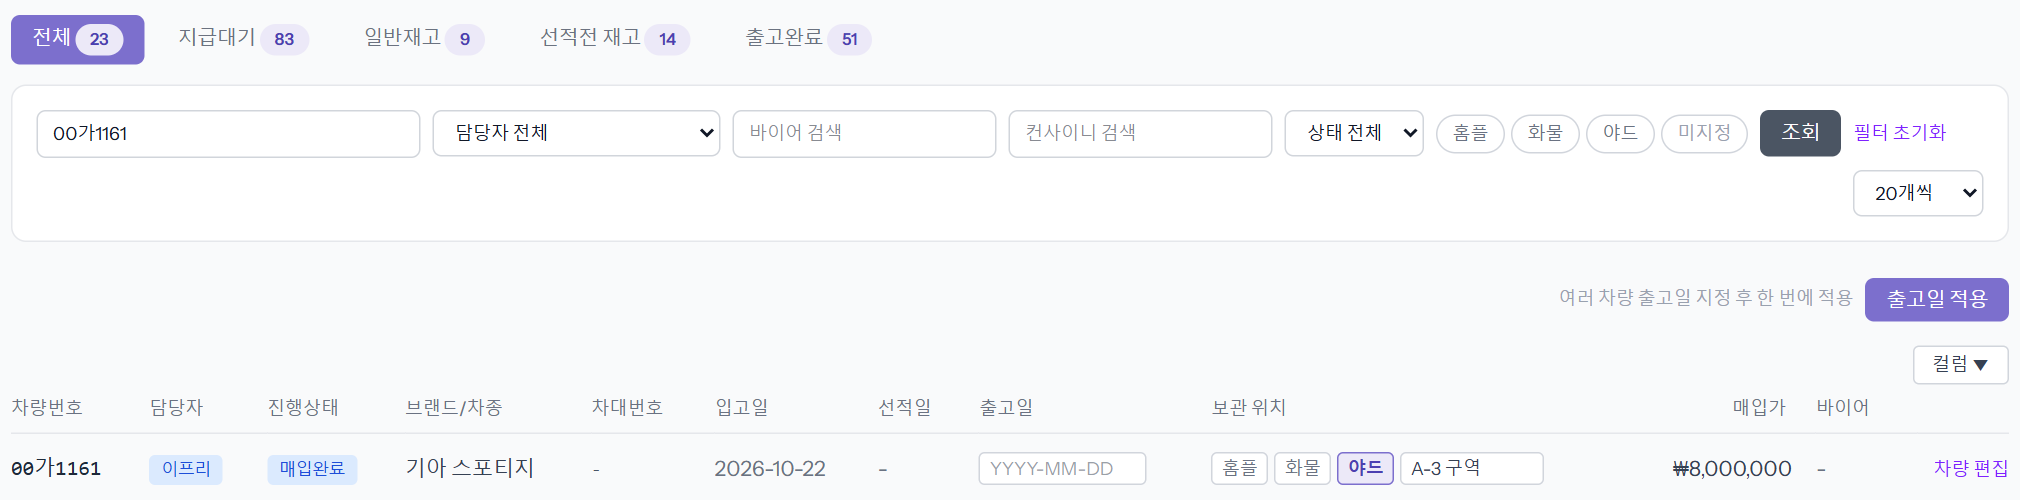
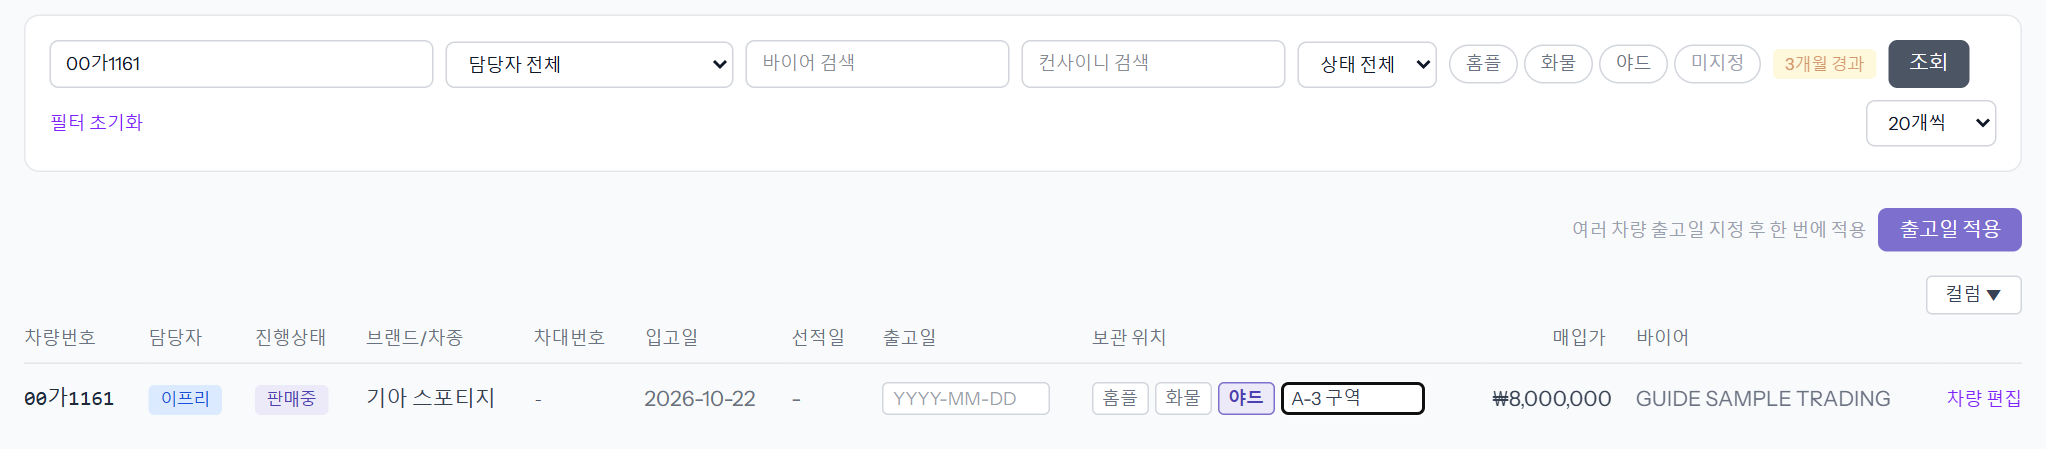
feat(guides): 재고관리 씬 — 담당자별 재고 금액 단계 추가 · 그림 3장 새로 (jin 11-20)
Claude-Session: https://claude.ai/code/session_01C7ygYboCgJMa4kZSBSuMvE

diff --git a/resources/guides/inventory-location/index.html b/resources/guides/inventory-location/index.html
@@ -1,5 +1,5 @@
 <p style="margin:0 0 14px;color:#4b5563;line-height:1.65">
-    매입 대금을 다 치른 차는 「재고관리」에 재고로 잡힙니다. 여기서 차가 어디 서 있는지(보관위치)와 실제로 나간 날(출고일)을 적습니다. 출고일이 찍히면 그 차는 재고에서 빠져 「출고완료」로 갑니다. 예시 차량 00가1161.
+    매입 대금을 다 치른 차는 「재고관리」에 재고로 잡힙니다. 여기서 담당자별 재고 금액을 보고, 차가 어디 서 있는지(보관위치)와 실제로 나간 날(출고일)을 적습니다. 출고일이 찍히면 그 차는 재고에서 빠져 「출고완료」로 갑니다. 예시 차량 00가1161.
 </p>
 
 <h2 class="gd-sec">① 탭 — 어떤 차가 어디에 있나</h2>
@@ -8,22 +8,51 @@
     <table class="gd-table">
         <thead><tr><th>탭</th><th>들어 있는 차</th></tr></thead>
         <tbody>
-            <tr><td>전체</td><td>지금 재고(대금 완납 + 아직 안 나감)</td></tr>
+            <tr><td>전체</td><td>지금 재고(대금 완납 + 아직 안 나감) = 일반재고 + 선적전 재고</td></tr>
             <tr><td>지급대기</td><td>매입 대금이 남은 차(입고 전). 지급을 마치면 재고로 넘어갑니다</td></tr>
-            <tr><td>일반재고</td><td>재고 중 바이어도 판매가도 없는 차(바이어 미정 재고매입). 담당자 한 사람당 합계 2억까지 · 입고 3개월 안에 판매 권장</td></tr>
-            <tr><td>선적전 재고</td><td>재고 중 바이어가 지정됐거나 판매가가 들어간, 아직 안 나간 차(바이어만 지정하고 판매가를 아직 안 넣은 차도 여기)</td></tr>
+            <tr><td>일반재고</td><td>재고 중 바이어도 판매가도 없는 차(바이어 미정 재고매입)</td></tr>
+            <tr><td>선적전 재고</td><td>재고 중 바이어가 지정됐거나 판매가가 들어간, 아직 안 나간 차. 바이어만 지정하고 판매가를 아직 안 넣은 차도 여기입니다</td></tr>
             <tr><td>출고완료</td><td>출고일이 찍혀 재고에서 빠진 차(최근 출고순)</td></tr>
         </tbody>
     </table>
 </div>
 
-<h2 class="gd-sec">② 보관위치 · 출고일 적기</h2>
+<h2 class="gd-sec">② 담당자별 재고 금액</h2>
+
+<div class="gd-step">
+    <h3>탭 아래 담당자 이름과 금액 카드 4칸</h3>
+    <p>카드는 매입가 합을 억원 단위로 보여 줍니다(마우스를 올리면 원 단위). 담당자 이름을 누르면 아래 목록과 카드 금액이 그 담당자 것으로 바뀌고, 같은 이름을 다시 누르거나 「전체」를 누르면 풀립니다.</p>
+    <img src="04.png" alt="재고관리 위쪽 — 탭, 담당자 이름 줄(전체·김영업(빨강)·이프리·정수출·최매입·황진영 등), 금액 카드 4칸: 재고 총금액 5.59억원 · 지급대기 금액 10.89억원 · 일반재고 3.17억원(2억 넘은 담당자 1명) · 선적전 재고 2.42억원, 검색줄의 3개월 경과 뱃지">
+    <div class="gd-table-wrap">
+        <table class="gd-table">
+            <thead><tr><th>카드</th><th>뜻</th></tr></thead>
+            <tbody>
+                <tr><td>재고 총금액</td><td>일반재고 + 선적전 재고. 지급대기는 입고 전이라 들어가지 않습니다</td></tr>
+                <tr><td>지급대기 금액</td><td>매입 대금이 남은 차들의 매입가 합</td></tr>
+                <tr><td>일반재고</td><td>바이어도 판매가도 없는 재고. 담당자 한 사람당 2억까지</td></tr>
+                <tr><td>선적전 재고</td><td>바이어가 지정됐거나 판매가가 들어간 재고</td></tr>
+            </tbody>
+        </table>
+    </div>
+</div>
+
+<div class="gd-step">
+    <h3>일반재고는 담당자 한 사람당 2억까지</h3>
+    <ul>
+        <li>2억을 넘은 담당자는 이름과 일반재고 카드가 빨갛게 표시됩니다. 이름을 누르면 얼마를 넘었는지(또는 2억까지 얼마 남았는지)가 카드에 나옵니다.</li>
+        <li>지금 일반재고에 새 차 매입가를 더해 2억을 넘으면, 그 담당자 이름으로는 board 에서 바이어 없는 재고매입을 구매확정할 수 없습니다(ERP 에 차가 생기지 않습니다).</li>
+        <li>일반재고를 팔거나 바이어를 지정하면 그만큼 한도가 다시 생깁니다. 매입 대금을 아직 안 치른 차는 합계에 들어가지 않습니다.</li>
+        <li>검색줄의 「3개월 경과」 뱃지를 누르면 일반재고 중 입고 3개월이 지난 차만 추려 봅니다. 차 줄에 붙는 뱃지와 같은 기준이고, 다시 누르면 풀립니다.</li>
+    </ul>
+</div>
+
+<h2 class="gd-sec">③ 보관위치 · 출고일 적기</h2>
 
 <div class="gd-step">
     <div class="gd-n">1단계</div>
     <h3>차 줄의 「보관 위치」 버튼(홈플 · 화물 · 야드)을 고르고 옆 칸에 비고</h3>
     <p>고른 버튼이 진하게 바뀝니다. 같은 버튼을 다시 누르면 해제됩니다. 비고 칸에는 「A-3 구역」처럼 찾기 쉬운 자리를 적습니다.</p>
-    <img src="01.png" alt="재고관리 — 탭(전체·지급대기·일반재고·선적전 재고·출고완료), 검색 00가1161, 보관위치 필터(홈플·화물·야드·미지정), 출고일 적용 버튼, 00가1161 줄 — 출고일 비어 있음, 보관 위치 야드 선택 · 비고 A-3 구역">
+    <img src="01.png" alt="재고관리 — 검색 00가1161, 보관위치 필터(홈플·화물·야드·미지정)와 3개월 경과 뱃지, 출고일 적용 버튼, 00가1161 줄 — 출고일 비어 있음, 보관 위치 야드 선택 · 비고 A-3 구역">
 </div>
 
 <div class="gd-step">
@@ -40,7 +69,7 @@
     <p style="color:#6b7280">※ 잘못 찍었으면 출고완료 탭에서 출고일을 지우고 다시 [출고일 적용] — 재고로 되돌아옵니다.</p>
 </div>
 
-<h2 class="gd-sec">③ board 에서 바뀐 보관위치</h2>
+<h2 class="gd-sec">④ board 에서 바뀐 보관위치</h2>
 
 <div class="gd-step">
     <div class="gd-n">4단계</div>
@@ -52,9 +81,6 @@
 <div class="gd-check">
     <h3>알아 둘 것</h3>
     <ul>
-        <li>탭 아래 카드 4칸(재고 총금액 · 지급대기 금액 · 일반재고 · 선적전 재고)은 매입가 합을 억원 단위로 보여 줍니다. 그 위 담당자 이름 칩을 누르면 목록과 카드가 그 담당자 것으로 바뀌고, 다시 누르면 풀립니다.</li>
-        <li>일반재고는 담당자 한 사람당 2억까지입니다. 넘은 담당자는 이름 칩과 일반재고 카드가 빨갛게 표시되고, 그 담당자 이름으로는 board 에서 바이어 없는 재고매입을 구매확정할 수 없습니다. 일반재고를 팔거나 바이어를 지정하면 풀립니다.</li>
-        <li>검색줄의 「3개월 경과」 뱃지를 누르면 일반재고 중 입고 3개월이 지난 차만 추려 봅니다. 차 줄에 붙는 뱃지와 같은 기준입니다.</li>
         <li>검색줄의 위치 버튼(홈플 · 화물 · 야드 · 미지정)은 여러 개를 같이 고를 수 있습니다. 미지정 = 위치를 안 적은 차. 위치 이름은 회사마다 다를 수 있습니다(예: 쇼링 · 항입고 · 야드).</li>
         <li>선적일이 오늘 이전으로 들어간 차도 이미 떠난 것으로 보고 재고에서 빠집니다.</li>
         <li>[컬럼]에서 보이는 칸을 고를 수 있습니다. 차량번호 · 담당자 · 진행상태 · 출고일 · 보관 위치는 늘 보입니다.</li>

diff --git a/resources/guides/board-purchase-sync/index.html b/resources/guides/board-purchase-sync/index.html
@@ -30,7 +30,7 @@
 <div class="gd-step">
     <div class="gd-n">4단계</div>
     <h3>매입 대금을 다 치르면 재고관리에 나옵니다</h3>
-    <p>board 가 보낸 보관위치(예: 야드 · 「인천 야드 3구역」)는 이미 기록돼 있어서, 매입 미지급이 0 이 되는 순간 재고관리에 그 위치로 보입니다. 위치 · 출고일 다루는 법은 씬 「재고관리 — 보관위치·출고일」을 보세요.</p>
+    <p>board 가 보낸 보관위치(예: 야드 · 「인천 야드 3구역」)는 이미 기록돼 있어서, 매입 미지급이 0 이 되는 순간 재고관리에 그 위치로 보입니다. 위치 · 출고일 다루는 법은 씬 「재고관리 — 재고 금액·보관위치·출고일」을 보세요.</p>
 </div>
 
 <div class="gd-check">

diff --git a/config/guides.php b/config/guides.php
@@ -48,7 +48,7 @@ return [
         'documents' => ['Generate documents', 'Create the customs set and shipping documents for several vehicles at once'],
         'bulk-shipping-dates' => ['Bulk-enter shipping date, ETA and numbers', 'Fill dates and numbers for every vehicle on the same vessel'],
         'shipping-requests' => ['Shipping requests', 'Handle B/L requests and change requests from Board shipping groups'],
-        'inventory-location' => ['Inventory — location and release date', 'Record where a vehicle is parked and when it left'],
+        'inventory-location' => ['Inventory — stock value, location and release date', 'See stock value per salesperson, and record where a vehicle is parked and when it left'],
         'receivables' => ['Receivables', 'Record collections and follow the risk level'],
         'monthly-payout' => ['Monthly payout — submit to final close', 'Confirm settlements, submit for approval and pay out'],
         'secondary-settlement' => ['Second settlement', 'Enter actual costs and close; the difference carries to next month'],
@@ -81,7 +81,7 @@ return [
         'documents' => ['export', '서류 만들기', '통관 SET과 선적 서류를 여러 대 한 번에 만듭니다', ['수출통관'], '통관 SET 인보이스 패킹 말소증'],
         'bulk-shipping-dates' => ['export', '선적일·ETA·번호 일괄 기입', '같은 배에 탄 차들의 날짜와 번호를 한 번에 넣습니다', ['수출통관'], '일괄 기입 B/L 번호'],
         'shipping-requests' => ['export', '선적요청', 'board 선적 묶음에서 B/L 요청과 변경요청을 처리합니다', ['수출통관'], '컨테이너 묶음'],
-        'inventory-location' => ['export', '재고관리 — 보관위치·출고일', '차가 어디 서 있는지와 나간 날을 적습니다', ['수출통관', '관리'], '야드 홈플 출고'],
+        'inventory-location' => ['export', '재고관리 — 재고 금액·보관위치·출고일', '담당자별 재고 금액을 보고, 차가 어디 서 있는지와 나간 날을 적습니다', ['수출통관', '관리'], '야드 홈플 출고 일반재고 2억 한도 담당자별 금액 3개월 경과 재고매입'],
         'receivables' => ['settlement', '채권관리', '회수 기록을 남기고 위험도를 봅니다', ['재무'], '미수 회수 상계'],
         'monthly-payout' => ['settlement', '월정산 — 제출부터 최종 확정까지', '정산을 확정하고 결재를 올려 지급까지 마칩니다', ['재무', '업무관리자'], '결재선 승인 지급 정산 엑셀'],
         'secondary-settlement' => ['settlement', '2차 정산', '명세서 비용을 넣고 마감하면 차액이 다음 달로 넘어갑니다', ['재무'], '명세서 이월 마감'],
